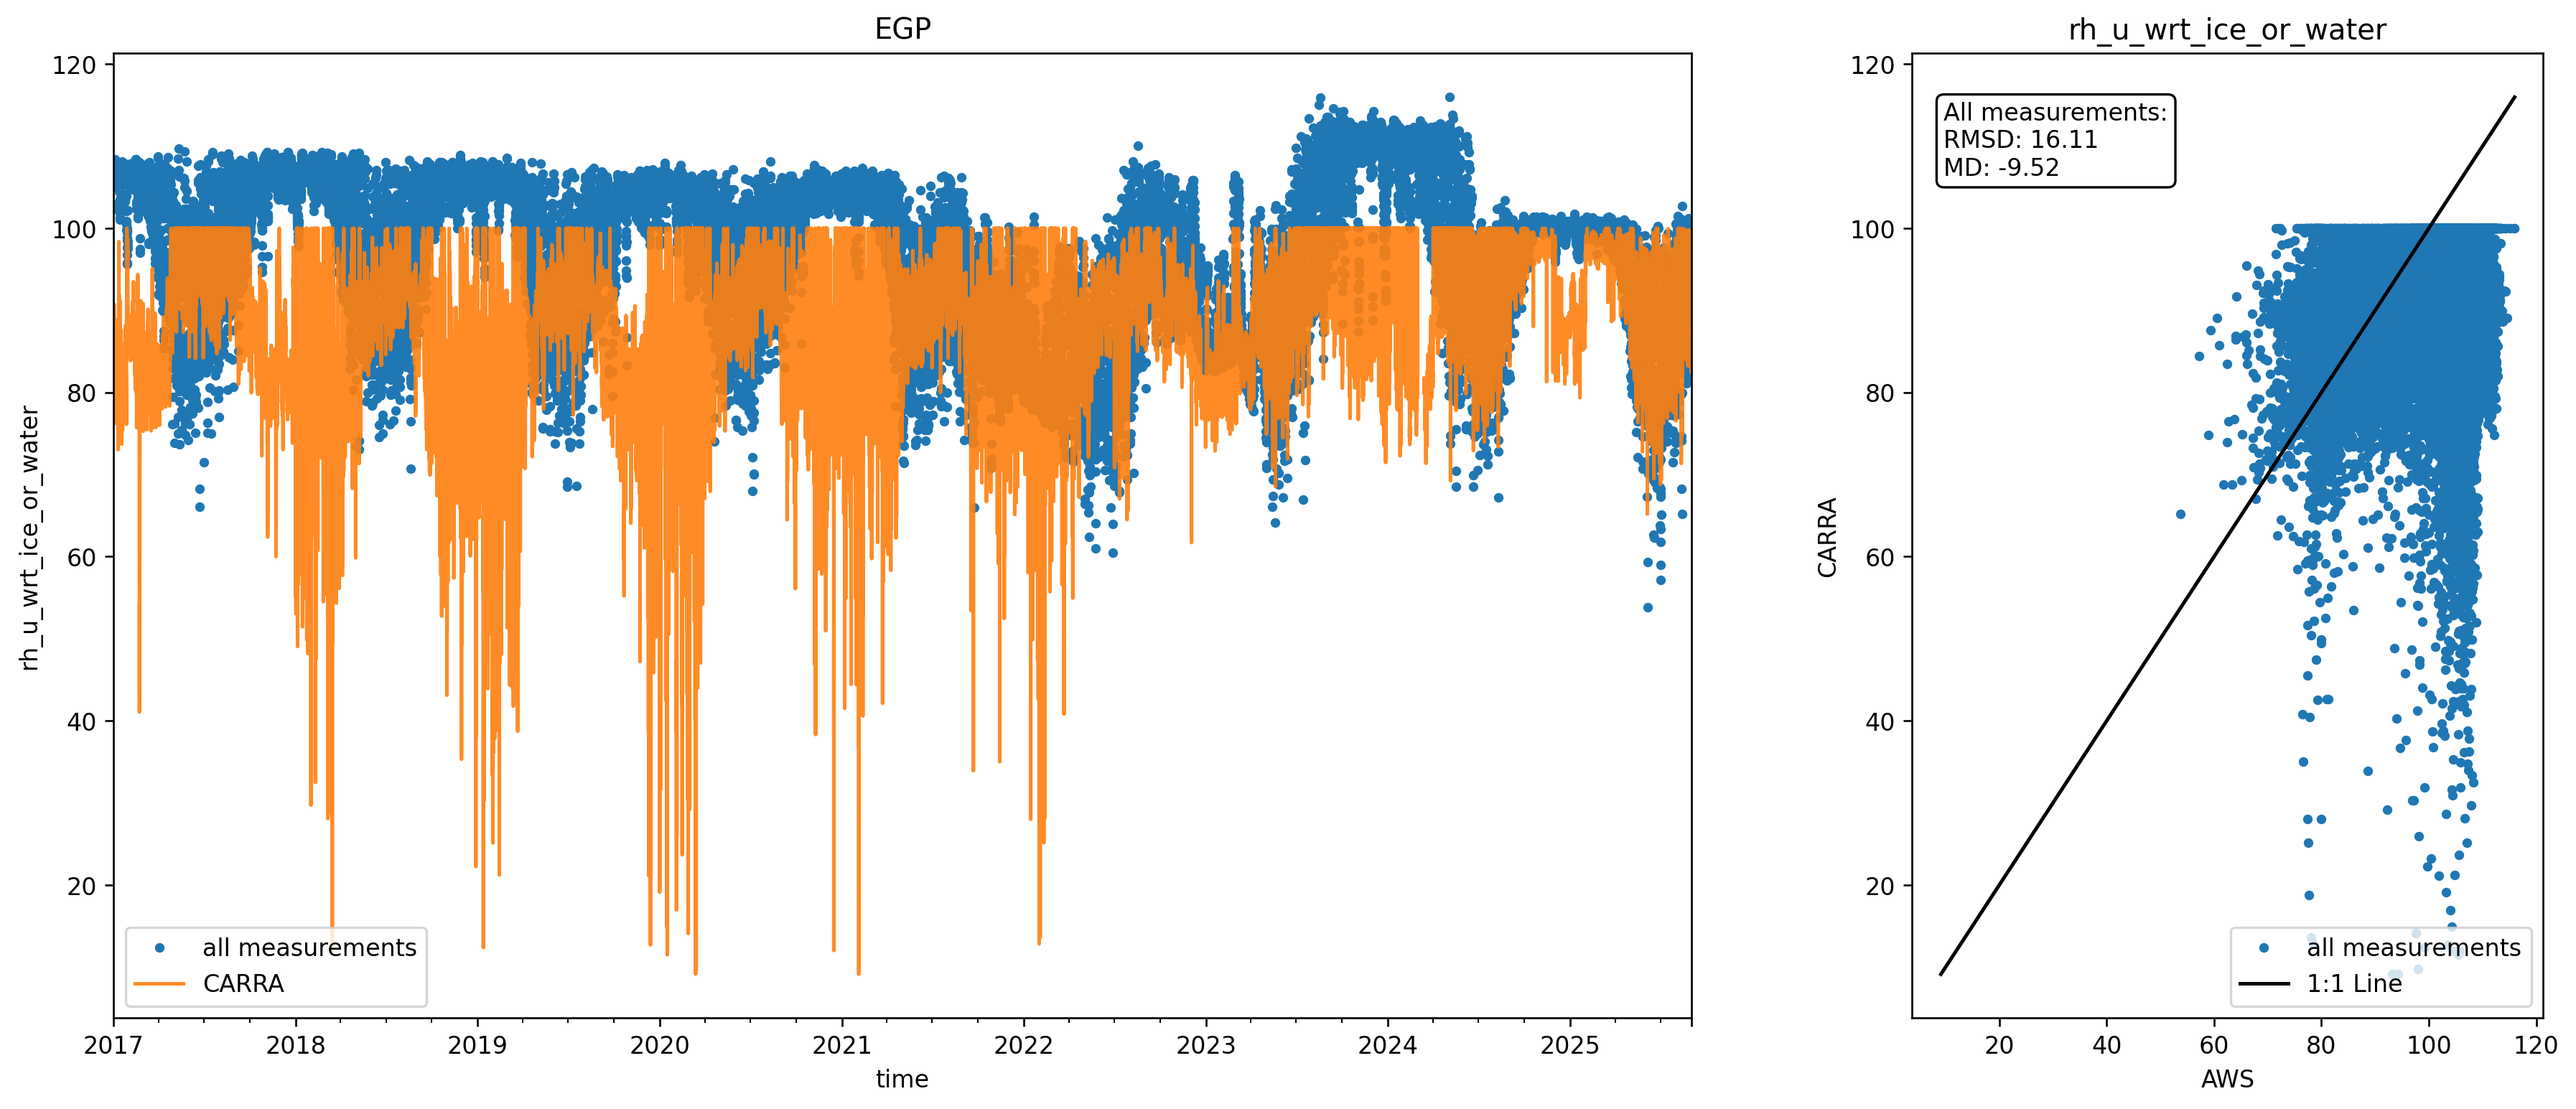
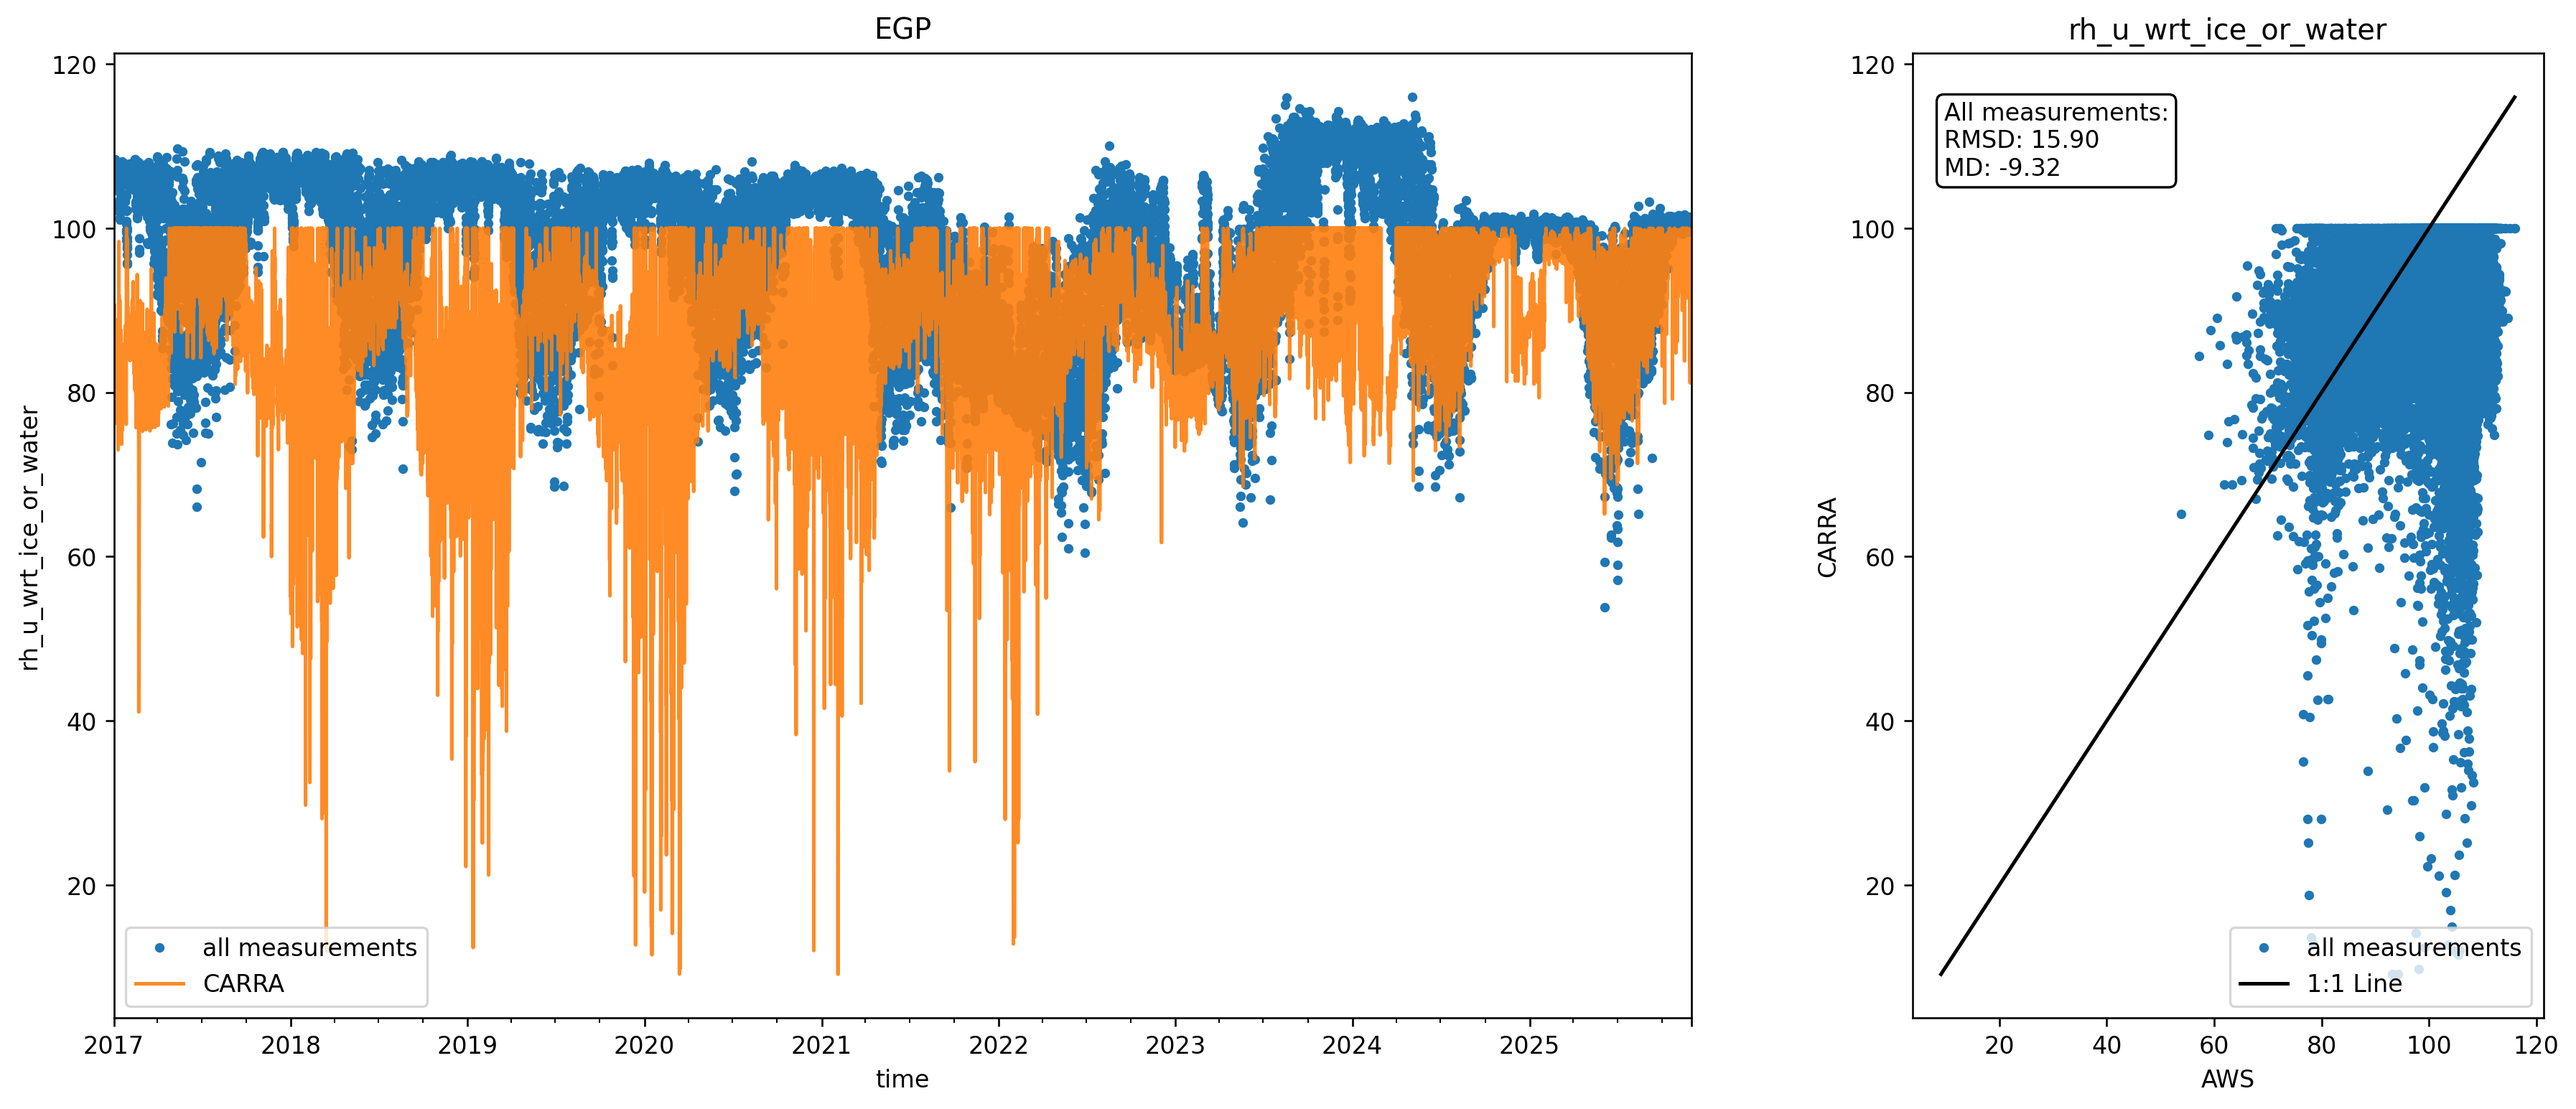
code and plot update

diff --git a/lib.py b/lib.py
@@ -4,12 +4,15 @@ import xarray as xr
 import pandas as pd
 import os
 
+PATH_TO_CARRA = 'C:/Users/bav/OneDrive - GEUS/Data/CARRA/CARRA_at_AWS/'
 def load_CARRA_data(stid):
 
-    if os.path.exists(f"./data/CARRA_at_AWS/{stid}.nc"):
-        ds_carra = xr.open_dataset(f"./data/CARRA_at_AWS/{stid}.nc")
+    if os.path.exists(f"{PATH_TO_CARRA}/{stid}.nc"):
+        ds_carra = xr.open_dataset(f"{PATH_TO_CARRA}/{stid}.nc")
+    elif os.path.exists(f"{PATH_TO_CARRA}/{stid.replace('v3','')}.nc"):
+        ds_carra = xr.open_dataset(f"{PATH_TO_CARRA}/{stid.replace('v3','')}.nc")
     else:
-        ds_carra = xr.open_dataset(f"./data/CARRA_20250212/{stid.replace('v3','')}.nc")
+        print('ERROR: Cannot read CARRA data')
     ds_carra=ds_carra.isel(station=0)
 
     df_carra = ds_carra.to_dataframe().rename(columns={

diff --git a/CARRA_evaluation_AWS.py b/CARRA_evaluation_AWS.py
@@ -56,7 +56,7 @@ else:
         'EGP',  'HUM','JAR', 'JAR_O', 'KAN_L',
        'KAN_M', 'KAN_U', 'KPC_U', 'NAE',
        'NAU',  'NEM', 'NSE', 'NUK_N','NUK_U', 'QAS_A',
-       'QAS_L', 'QAS_M', 'QAS_U',  'SCO_U', 
+       'QAS_L', 'QAS_M', 'QAS_U',  'SCO_U',
        'SCO_L', 'SDL', 'SDM',  'SWC', 'SWC_O',       'UPE_L', 'UPE_U',
        'TAS_A', 'TAS_L', 'TAS_U', 'THU_L', 'THU_L2', 'THU_U2', 'TUN',
        'FRE','WEG_L','RED_L','NUK_K', 'ZAC_A', 'ZAC_U','ZAC_L']
@@ -67,7 +67,7 @@ site_alias = {'CEN':'CEN2', 'CP1':'Crawford Point 1', 'DY2':'DYE-2',
               'NSE':'NASA-SE', 'NEM':'NEEM', 'JAR':'JAR1'}
 # % Plotting site-specific evaluation
 
-for stid in station_list[5:]:
+for stid in station_list:
 # for stid in ['NSE']:
     Msg('# '+stid)
     df_aws = lib.load_promice_data(stid, res, data_type)

diff --git a/out/compil_plots_sites_hour.md b/out/compil_plots_sites_hour.md
@@ -1,3 +1,38 @@
+# CEN
+## rh_u
+![](../figures/CARRA_vs_AWS_sites_hour//CEN_rh_u.png)
+ 
+## rh_u_wrt_ice_or_water
+![](../figures/CARRA_vs_AWS_sites_hour//CEN_rh_u_wrt_ice_or_water.png)
+ 
+# CP1
+## rh_u
+![](../figures/CARRA_vs_AWS_sites_hour//CP1_rh_u.png)
+ 
+## rh_u_wrt_ice_or_water
+![](../figures/CARRA_vs_AWS_sites_hour//CP1_rh_u_wrt_ice_or_water.png)
+ 
+# DY2
+## rh_u
+![](../figures/CARRA_vs_AWS_sites_hour//DY2_rh_u.png)
+ 
+## rh_u_wrt_ice_or_water
+![](../figures/CARRA_vs_AWS_sites_hour//DY2_rh_u_wrt_ice_or_water.png)
+ 
+# EGP
+## rh_u
+![](../figures/CARRA_vs_AWS_sites_hour//EGP_rh_u.png)
+ 
+## rh_u_wrt_ice_or_water
+![](../figures/CARRA_vs_AWS_sites_hour//EGP_rh_u_wrt_ice_or_water.png)
+ 
+# HUM
+## rh_u
+![](../figures/CARRA_vs_AWS_sites_hour//HUM_rh_u.png)
+ 
+## rh_u_wrt_ice_or_water
+![](../figures/CARRA_vs_AWS_sites_hour//HUM_rh_u_wrt_ice_or_water.png)
+ 
 # JAR
 ## rh_u
 ![](../figures/CARRA_vs_AWS_sites_hour//JAR_rh_u.png)

diff --git a/out/compil_plots_stations_hour.md b/out/compil_plots_stations_hour.md
@@ -22,6 +22,3 @@ no dshf_u in hour stations data
 ![](../figures/CARRA_vs_AWS_stations_hour//CEN1_t_u.png)
  
 ## rh_u
-![](../figures/CARRA_vs_AWS_stations_hour//CEN1_rh_u.png)
- 
-## rh_u_wrt_ice_or_water
